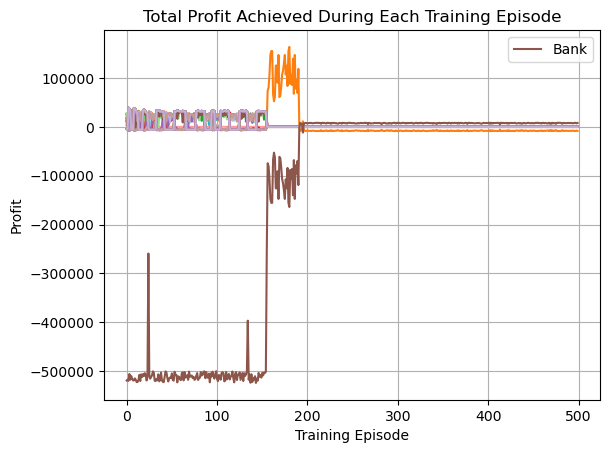
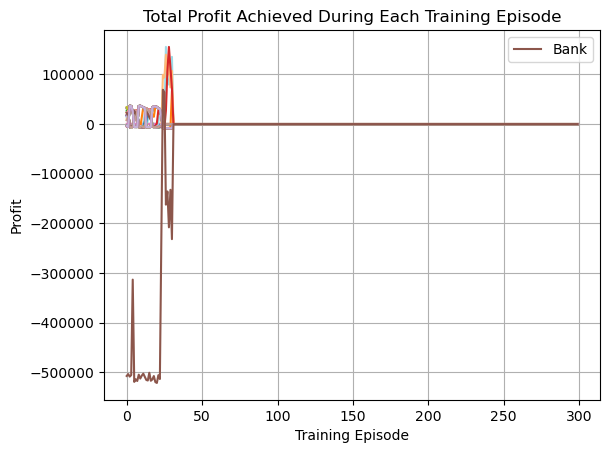
Simulation with learners and simulation with experts

diff --git a/simulations/expert_simulation.py b/simulations/expert_simulation.py
@@ -1,0 +1,185 @@
+from agents.dqn import DQNAgent
+from agents.macd import MACD
+from agents.macd_stochastic import MACDStochastic
+from agents.rsi import RSI
+from agents.stochastic import Stochastic
+from environment.state import State
+from environment.trade import TradeType
+from matplotlib.cm import get_cmap
+import matplotlib.pyplot as plt
+import numpy as np
+
+
+def _filter_state(state: np.array, is_bank: bool) -> np.array:
+    if is_bank:
+        return state
+
+    # Make sure the regular agents don't have access to how many buys and sells there are
+    slice = state[:-3, ]
+    slice = np.append(slice, state[-1, ])
+
+    return slice
+
+
+num_agents = 50
+num_agents += 1  # An extra agent that represents the bank
+state = State(num_agents)
+state_dim, starting_balance, bank_starting_balance = \
+    state.vectorize().shape[-1], state.starting_balance, state.bank_starting_balance
+n_agent_types = 4
+per_agent_type = (num_agents - 1) // n_agent_types
+n_last_agent_type = num_agents - 1 - (per_agent_type * (n_agent_types - 1))
+macd_agents = [MACD(f'MACD_{i}') for i in range(per_agent_type)]
+rsi_agents = [RSI(f'RSI_{i}') for i in range(per_agent_type)]
+macd_stoch_agents = [MACDStochastic(f'MACDStoch_{i}') for i in range(per_agent_type)]
+stochastic_agents = [Stochastic(f'Stoch_{i}') for i in range(n_last_agent_type)]
+bank_agents = [DQNAgent(f'Bank', state_dim, 2, is_bank=True)]
+agents = macd_agents + rsi_agents + macd_stoch_agents + stochastic_agents + bank_agents
+assert len(agents) == num_agents
+num_episodes = 300
+training_profits, test_profits = {}, {}
+
+for episode in range(num_episodes):
+    print(f'EPISODE {episode + 1}')
+
+    done, state = False, State(num_agents)
+    curr_state_matrix = state.vectorize()
+    n_iterations = 0
+
+    while not done:
+        trades = []
+        curr_price = state.curr_price()
+        n_buys, n_sells = curr_state_matrix[0, -3], curr_state_matrix[0, -2]
+
+        for i, agent in enumerate(agents):
+            agent_state = _filter_state(curr_state_matrix[i], agent.is_bank)
+            agent_trade = agent.place_trade(agent_state, curr_price, n_buys, n_sells)
+            trades.append(agent_trade)
+
+            if not agent.is_bank:
+                n_buys += 1 if (agent_trade is not None and agent_trade.trade_type is TradeType.BUY) else 0
+                n_sells += 1 if (agent_trade is not None and agent_trade.trade_type is TradeType.SELL) else 0
+
+        curr_state_matrix, rewards, done = state.step(trades)
+        n_iterations += 1
+
+        for i, reward in enumerate(rewards):
+            agent = agents[i]
+
+            if isinstance(agent, DQNAgent):
+                trade = trades[i]
+                agent_next_state = _filter_state(curr_state_matrix[i], agent.is_bank)
+                if agent.is_bank:
+                    action = 0 if trade.trade_type is TradeType.BUY else 1
+                else:
+                    action = 0 if trade is None else (1 if trade.trade_type is TradeType.BUY else 2)
+                # action = 0 if trade is None else (1 if trade.trade_type is TradeType.BUY else 2)
+                agent.add_experience(action, reward, agent_next_state, done)
+                agent.train()
+
+            if reward != 0:
+                agent.trade_finished(reward)
+
+    print(f'Finished in {n_iterations} iterations\n')
+    print('Profits: ')
+
+    for i in range(num_agents):
+        balance = state.agent_balances[i]
+        agent_name = agents[i].name
+        starting_balance_adjusted = starting_balance if agent_name != 'Bank' else bank_starting_balance
+        profit = balance - starting_balance_adjusted
+        print(f'{agent_name}\'s profit: {profit}')
+        training_profits[agent_name] = training_profits.get(agent_name, []) + [profit]
+
+    if episode % 1 == 0:
+        print('\nUpdating target networks')
+
+        for agent in agents:
+            if isinstance(agent, DQNAgent):
+                agent.update_networks()
+
+    print()
+
+# Generate training profits plot
+cmap = get_cmap('tab20')
+line_colors = [cmap(i % 20) for i in range(len(training_profits))]
+x = range(0, num_episodes)
+plt.grid()
+i = 0
+for name, profits in training_profits.items():
+    color = line_colors[i]
+    if name == 'Bank':
+        plt.plot(x, profits, label=name, color=color)
+    else:
+        plt.plot(x, profits, color=color)
+    i += 1
+plt.xlabel('Training Episode')
+plt.ylabel('Profit')
+plt.legend(loc='best')
+plt.title(f'Total Profit Achieved During Each Training Episode')
+plt.savefig(f'../results/expert_training_profits', bbox_inches='tight')
+plt.clf()
+
+test_episodes = 5
+
+for episode in range(test_episodes):
+    print(f'TEST EPISODE {episode + 1}')
+
+    done, state = False, State(num_agents)
+    curr_state_matrix = state.vectorize()
+    n_iterations = 0
+
+    while not done:
+        trades = []
+        curr_price = state.curr_price()
+        n_buys, n_sells = curr_state_matrix[0, -3], curr_state_matrix[0, -2]
+
+        for i, agent in enumerate(agents):
+            agent_state = _filter_state(curr_state_matrix[i], agent.is_bank)
+            agent_trade = agent.place_trade(agent_state, curr_price, n_buys, n_sells)
+            trades.append(agent_trade)
+
+            if not agent.is_bank:
+                n_buys += 1 if (agent_trade is not None and agent_trade.trade_type is TradeType.BUY) else 0
+                n_sells += 1 if (agent_trade is not None and agent_trade.trade_type is TradeType.SELL) else 0
+
+        curr_state_matrix, rewards, done = state.step(trades)
+        n_iterations += 1
+
+        for i, reward in enumerate(rewards):
+            agent = agents[i]
+
+            if reward != 0:
+                agent.trade_finished(reward)
+
+    print(f'Finished in {n_iterations} iterations\n')
+    print('Profits: ')
+
+    for i in range(num_agents):
+        balance = state.agent_balances[i]
+        agent_name = agents[i].name
+        starting_balance_adjusted = starting_balance if agent_name != 'Bank' else bank_starting_balance
+        profit = balance - starting_balance_adjusted
+        print(f'{agent_name}\'s profit: {profit}')
+        test_profits[agent_name] = test_profits.get(agent_name, []) + [profit]
+
+# Generate test profits plot
+cmap = get_cmap('tab20')
+line_colors = [cmap(i % 20) for i in range(len(test_profits))]
+x = range(0, test_episodes)
+plt.grid()
+i = 0
+for name, profits in test_profits.items():
+    color = line_colors[i]
+    if name == 'Bank':
+        plt.plot(x, profits, label=name, color=color)
+    else:
+        plt.plot(x, profits, color=color)
+    i += 1
+plt.xlabel('Test Episode')
+plt.ylabel('Profit')
+plt.legend(loc='best')
+plt.title(f'Total Profit Achieved During Each Test Episode')
+plt.savefig(f'../results/expert_test_profits', bbox_inches='tight')
+plt.clf()
+

diff --git a/simulations/learner_simulation.py b/simulations/learner_simulation.py
@@ -1,0 +1,184 @@
+from agents.dqn import DQNAgent
+from agents.eee import EEE
+from agents.exp3 import EXP3
+from agents.ucb import UCB
+from environment.state import State
+from environment.trade import TradeType
+from matplotlib.cm import get_cmap
+import matplotlib.pyplot as plt
+import numpy as np
+
+
+def _filter_state(state: np.array, is_bank: bool) -> np.array:
+    if is_bank:
+        return state
+
+    # Make sure the regular agents don't have access to how many buys and sells there are
+    slice = state[:-3, ]
+    slice = np.append(slice, state[-1, ])
+
+    return slice
+
+
+num_agents = 50
+num_agents += 1  # An extra agent that represents the bank
+state = State(num_agents)
+state_dim, starting_balance, bank_starting_balance = \
+    state.vectorize().shape[-1], state.starting_balance, state.bank_starting_balance
+n_agent_types = 4
+per_agent_type = (num_agents - 1) // n_agent_types
+n_last_agent_type = num_agents - 1 - (per_agent_type * (n_agent_types - 1))
+ucb_agents = [UCB(f'UCB_{i}') for i in range(per_agent_type)]
+eee_agents = [EEE(f'EEE_{i}') for i in range(per_agent_type)]
+exp3_agents = [EXP3(f'EXP3_{i}') for i in range(per_agent_type)]
+dqn_agents = [DQNAgent(f'DQN_{i}', state_dim - 2) for i in range(n_last_agent_type)]
+bank_agents = [DQNAgent(f'Bank', state_dim, 2, is_bank=True)]
+agents = ucb_agents + eee_agents + exp3_agents + dqn_agents + bank_agents
+assert len(agents) == num_agents
+num_episodes = 300
+training_profits, test_profits = {}, {}
+
+for episode in range(num_episodes):
+    print(f'EPISODE {episode + 1}')
+
+    done, state = False, State(num_agents)
+    curr_state_matrix = state.vectorize()
+    n_iterations = 0
+
+    while not done:
+        trades = []
+        curr_price = state.curr_price()
+        n_buys, n_sells = curr_state_matrix[0, -3], curr_state_matrix[0, -2]
+
+        for i, agent in enumerate(agents):
+            agent_state = _filter_state(curr_state_matrix[i], agent.is_bank)
+            agent_trade = agent.place_trade(agent_state, curr_price, n_buys, n_sells)
+            trades.append(agent_trade)
+
+            if not agent.is_bank:
+                n_buys += 1 if (agent_trade is not None and agent_trade.trade_type is TradeType.BUY) else 0
+                n_sells += 1 if (agent_trade is not None and agent_trade.trade_type is TradeType.SELL) else 0
+
+        curr_state_matrix, rewards, done = state.step(trades)
+        n_iterations += 1
+
+        for i, reward in enumerate(rewards):
+            agent = agents[i]
+
+            if isinstance(agent, DQNAgent):
+                trade = trades[i]
+                agent_next_state = _filter_state(curr_state_matrix[i], agent.is_bank)
+                if agent.is_bank:
+                    action = 0 if trade.trade_type is TradeType.BUY else 1
+                else:
+                    action = 0 if trade is None else (1 if trade.trade_type is TradeType.BUY else 2)
+                # action = 0 if trade is None else (1 if trade.trade_type is TradeType.BUY else 2)
+                agent.add_experience(action, reward, agent_next_state, done)
+                agent.train()
+
+            if reward != 0:
+                agent.trade_finished(reward)
+
+    print(f'Finished in {n_iterations} iterations\n')
+    print('Profits: ')
+
+    for i in range(num_agents):
+        balance = state.agent_balances[i]
+        agent_name = agents[i].name
+        starting_balance_adjusted = starting_balance if agent_name != 'Bank' else bank_starting_balance
+        profit = balance - starting_balance_adjusted
+        print(f'{agent_name}\'s profit: {profit}')
+        training_profits[agent_name] = training_profits.get(agent_name, []) + [profit]
+
+    if episode % 1 == 0:
+        print('\nUpdating target networks')
+
+        for agent in agents:
+            if isinstance(agent, DQNAgent):
+                agent.update_networks()
+
+    print()
+
+# Generate training profits plot
+cmap = get_cmap('tab20')
+line_colors = [cmap(i % 20) for i in range(len(training_profits))]
+x = range(0, num_episodes)
+plt.grid()
+i = 0
+for name, profits in training_profits.items():
+    color = line_colors[i]
+    if name == 'Bank':
+        plt.plot(x, profits, label=name, color=color)
+    else:
+        plt.plot(x, profits, color=color)
+    i += 1
+plt.xlabel('Training Episode')
+plt.ylabel('Profit')
+plt.legend(loc='best')
+plt.title(f'Total Profit Achieved During Each Training Episode')
+plt.savefig(f'../results/learner_training_profits', bbox_inches='tight')
+plt.clf()
+
+test_episodes = 5
+
+for episode in range(test_episodes):
+    print(f'TEST EPISODE {episode + 1}')
+
+    done, state = False, State(num_agents)
+    curr_state_matrix = state.vectorize()
+    n_iterations = 0
+
+    while not done:
+        trades = []
+        curr_price = state.curr_price()
+        n_buys, n_sells = curr_state_matrix[0, -3], curr_state_matrix[0, -2]
+
+        for i, agent in enumerate(agents):
+            agent_state = _filter_state(curr_state_matrix[i], agent.is_bank)
+            agent_trade = agent.place_trade(agent_state, curr_price, n_buys, n_sells)
+            trades.append(agent_trade)
+
+            if not agent.is_bank:
+                n_buys += 1 if (agent_trade is not None and agent_trade.trade_type is TradeType.BUY) else 0
+                n_sells += 1 if (agent_trade is not None and agent_trade.trade_type is TradeType.SELL) else 0
+
+        curr_state_matrix, rewards, done = state.step(trades)
+        n_iterations += 1
+
+        for i, reward in enumerate(rewards):
+            agent = agents[i]
+
+            if reward != 0:
+                agent.trade_finished(reward)
+
+    print(f'Finished in {n_iterations} iterations\n')
+    print('Profits: ')
+
+    for i in range(num_agents):
+        balance = state.agent_balances[i]
+        agent_name = agents[i].name
+        starting_balance_adjusted = starting_balance if agent_name != 'Bank' else bank_starting_balance
+        profit = balance - starting_balance_adjusted
+        print(f'{agent_name}\'s profit: {profit}')
+        test_profits[agent_name] = test_profits.get(agent_name, []) + [profit]
+
+# Generate test profits plot
+cmap = get_cmap('tab20')
+line_colors = [cmap(i % 20) for i in range(len(test_profits))]
+x = range(0, test_episodes)
+plt.grid()
+i = 0
+for name, profits in test_profits.items():
+    color = line_colors[i]
+    if name == 'Bank':
+        plt.plot(x, profits, label=name, color=color)
+    else:
+        plt.plot(x, profits, color=color)
+    i += 1
+plt.xlabel('Test Episode')
+plt.ylabel('Profit')
+plt.legend(loc='best')
+plt.title(f'Total Profit Achieved During Each Test Episode')
+plt.savefig(f'../results/learner_test_profits', bbox_inches='tight')
+plt.clf()
+
